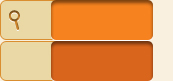
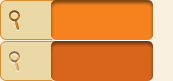
Styling front vicinity the new account page, common search image

Changed region(s): [[0.0289, 0.6173, 0.1156, 0.8889]]

diff --git a/public/css/internal.css b/public/css/internal.css
@@ -64,8 +64,9 @@
 	
 	#common_search fieldset .litle_left,#common_search fieldset input[type="submit"]{background:url("../img/lupa_search.jpg") 0 0 no-repeat;}
 	#common_search fieldset .litle_left{width:9px;}
-	#common_search fieldset select,#common_search fieldset input[type="text"]{padding-top:7px;}
-	#common_search fieldset input[type="text"]{height:30px;padding-left:7px;width:300px;}
+	#common_search fieldset select,#common_search fieldset input[type="text"]{}
+	#common_search fieldset input[type="text"]{height:36px;padding-left:5px;width:300px;}
+	#common_search fieldset select{padding-top:7px;}
 	#common_search fieldset select,#common_search fieldset input[type="text"]{
 															border-top:solid 1px #da8e2f;
 															border-bottom:solid 1px #da8e2f;
@@ -83,9 +84,9 @@
 /**/
 #search_result{padding:20px 0;}
 #search_result li{border-bottom:1px dotted #008AC9;font-size:14px;margin-top:0px;margin-bottom:20px;padding-bottom:20px;}
-	#search_result li a img{border:1px solid #e2e2e2;}
+	/*#search_result li a img{border:1px solid #e2e2e2;}
 	#search_result li a.img_list{border:1px dotted #e2e2e2;overflow:hidden;float:left;margin-bottom:5px;padding:5px;}	
-	#search_result li p{position:relative;left:10px;margin-bottom:5px;}
+	#search_result li p{position:relative;left:10px;margin-bottom:5px;}*/
 		#search_result li p strong{font-weight:bold;padding-right:2px;}
 		#search_result li p.name{font-size:20px;padding-top:5px;}
 	
@@ -130,7 +131,7 @@
 	#new_account form,
 	#contact form{padding-bottom:30px;}
 		#new_account form legend,
-		#contact form legend{color:#15508A;font-size:24px;padding:20px 5px 5px 5px;}
+		#contact form legend{font-size:24px;padding:20px 5px 5px 0;}
 			
 			#new_account form fieldset,#contact form fieldset{border-bottom:1px #15508A dotted;margin-bottom:20px;padding:20px;}
 				

diff --git a/public/css/style.css b/public/css/style.css
@@ -55,6 +55,10 @@ hr{color:#008AC9;}
 .reliable_rate{background-color:green;padding:2px;}
 .unreliable_rate{background-color:red;padding:2px;}
 
+/**/
+li a img{border:1px solid #F2DEB3;}
+li a.img_list{border:1px dotted #F2B54F;overflow:hidden;float:left;margin-bottom:5px;padding:5px;}	
+li p{position:relative;left:10px;margin-bottom:5px;}
 
 /*Declaration top to be common to all pages ***************************************/
 #common_menu{}

diff --git a/public/css/main.css b/public/css/main.css
@@ -34,7 +34,7 @@
 									height:30px;
 									width:300px;
 									font-size:18px;
-									padding-top:7px;
+									height:36px;
 									}
 	#main_search label.lupe,#main_search  input[type="submit"]{background:url("../img/lupa_search.jpg")0 0 no-repeat}
 	#main_search  input[type="submit"]{
